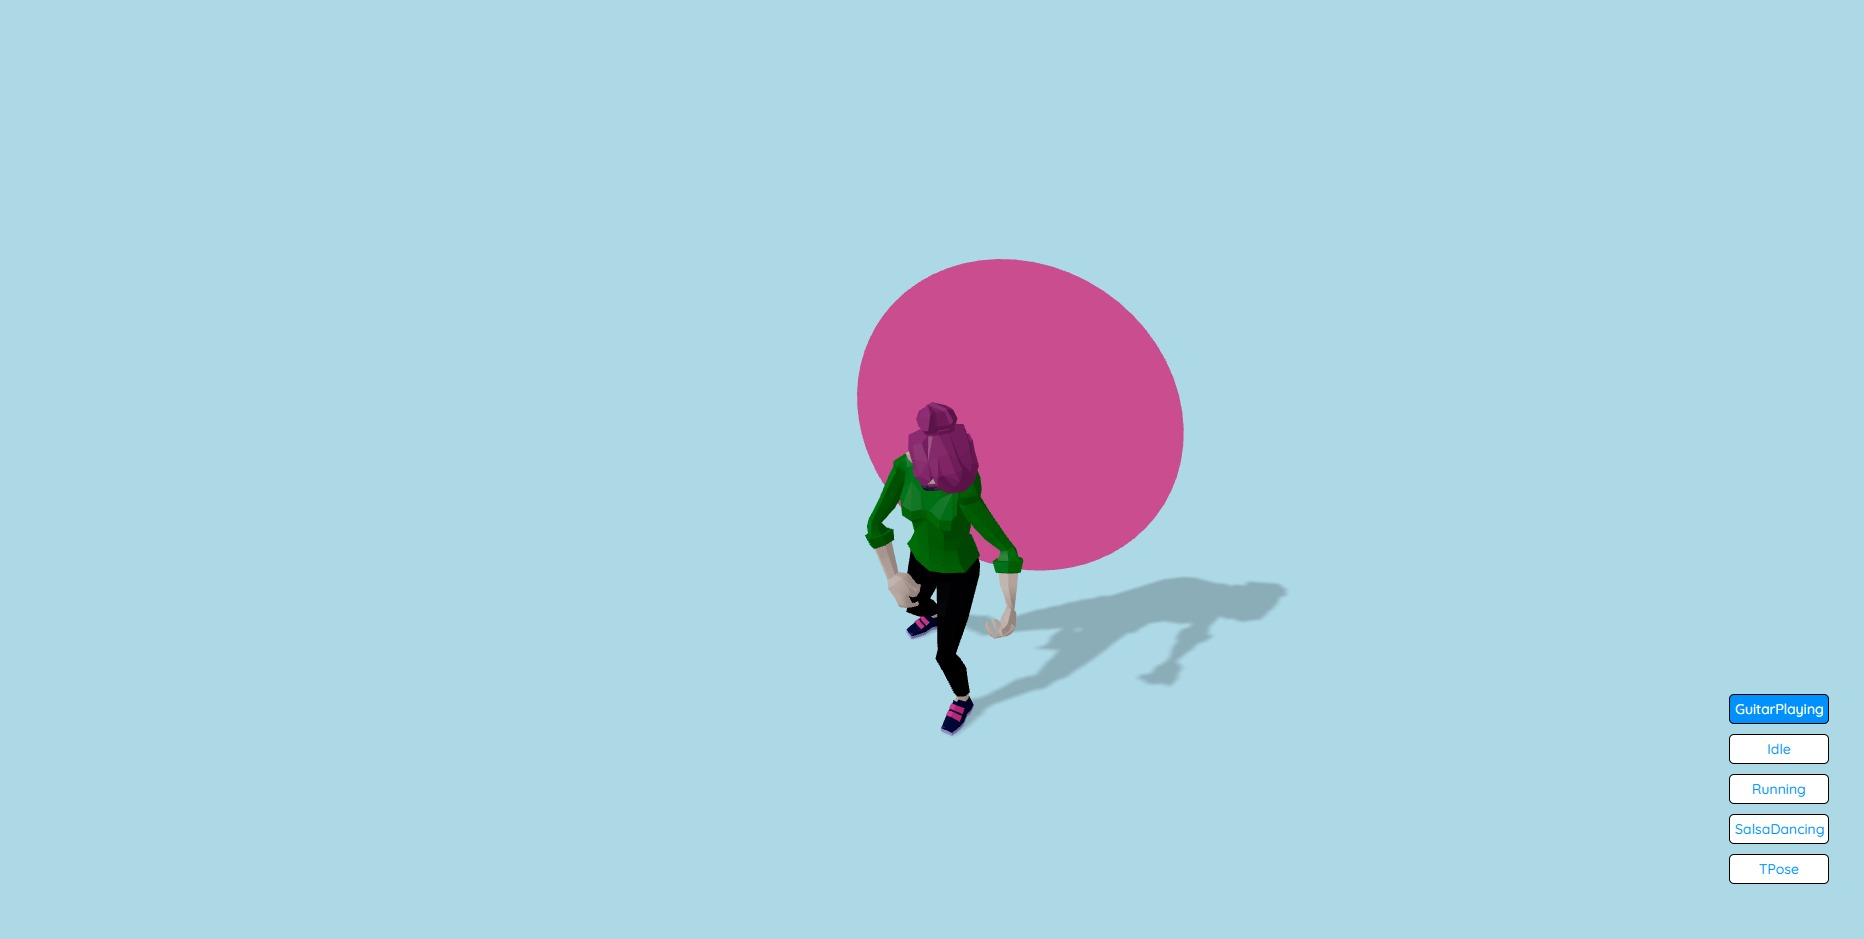
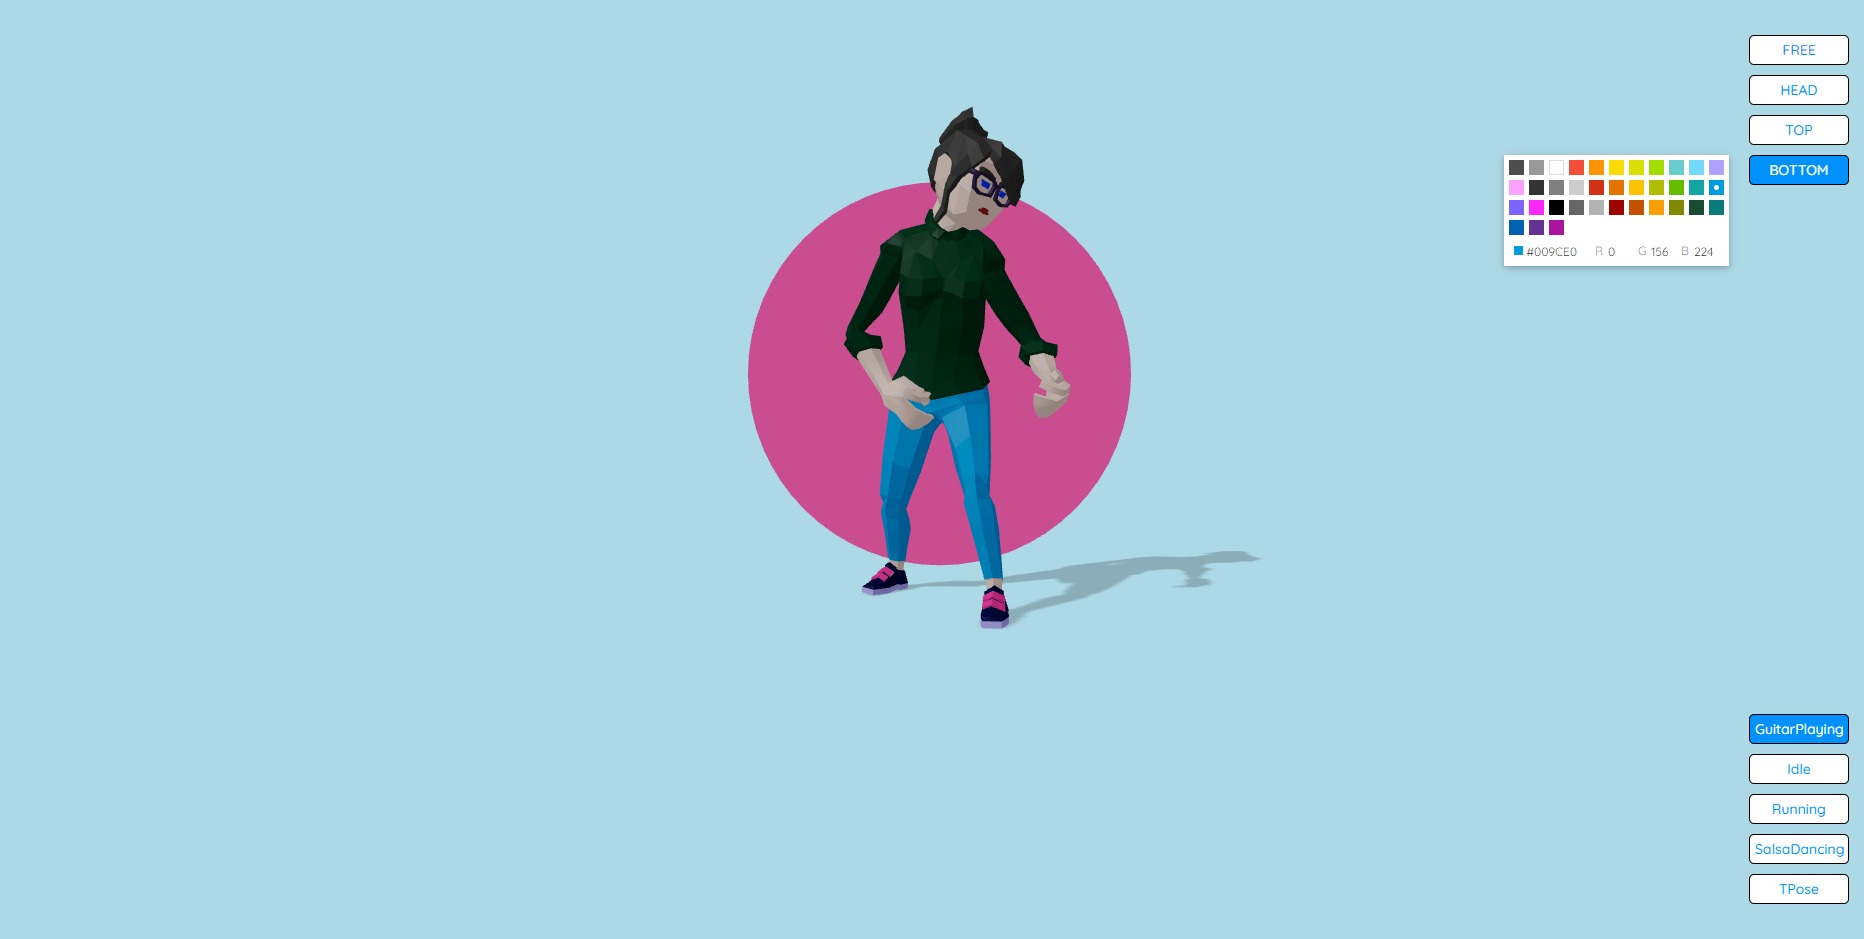
updating screenshot

Changed region(s): [[0.3734, 0.1235, 0.6845, 0.803], [0.809, 0.0309, 0.9957, 0.3088], [0.9024, 0.7412, 0.9957, 0.9883]]

diff --git a/src/components/TopCustomizer.jsx b/src/components/TopCustomizer.jsx
@@ -5,7 +5,7 @@ import { useState, useEffect } from 'react';
 export default function TopCustomizer() {
     const { shirtColor, setShirtColor } = useCharacterCustomizations();
 
-    const [currentColor, setCurrentColor] = useState('#4D4D4D');
+    const [currentColor, setCurrentColor] = useState('#194D33');
     const handleOnChange = (color) => {
         setCurrentColor(color.hex);
     };
